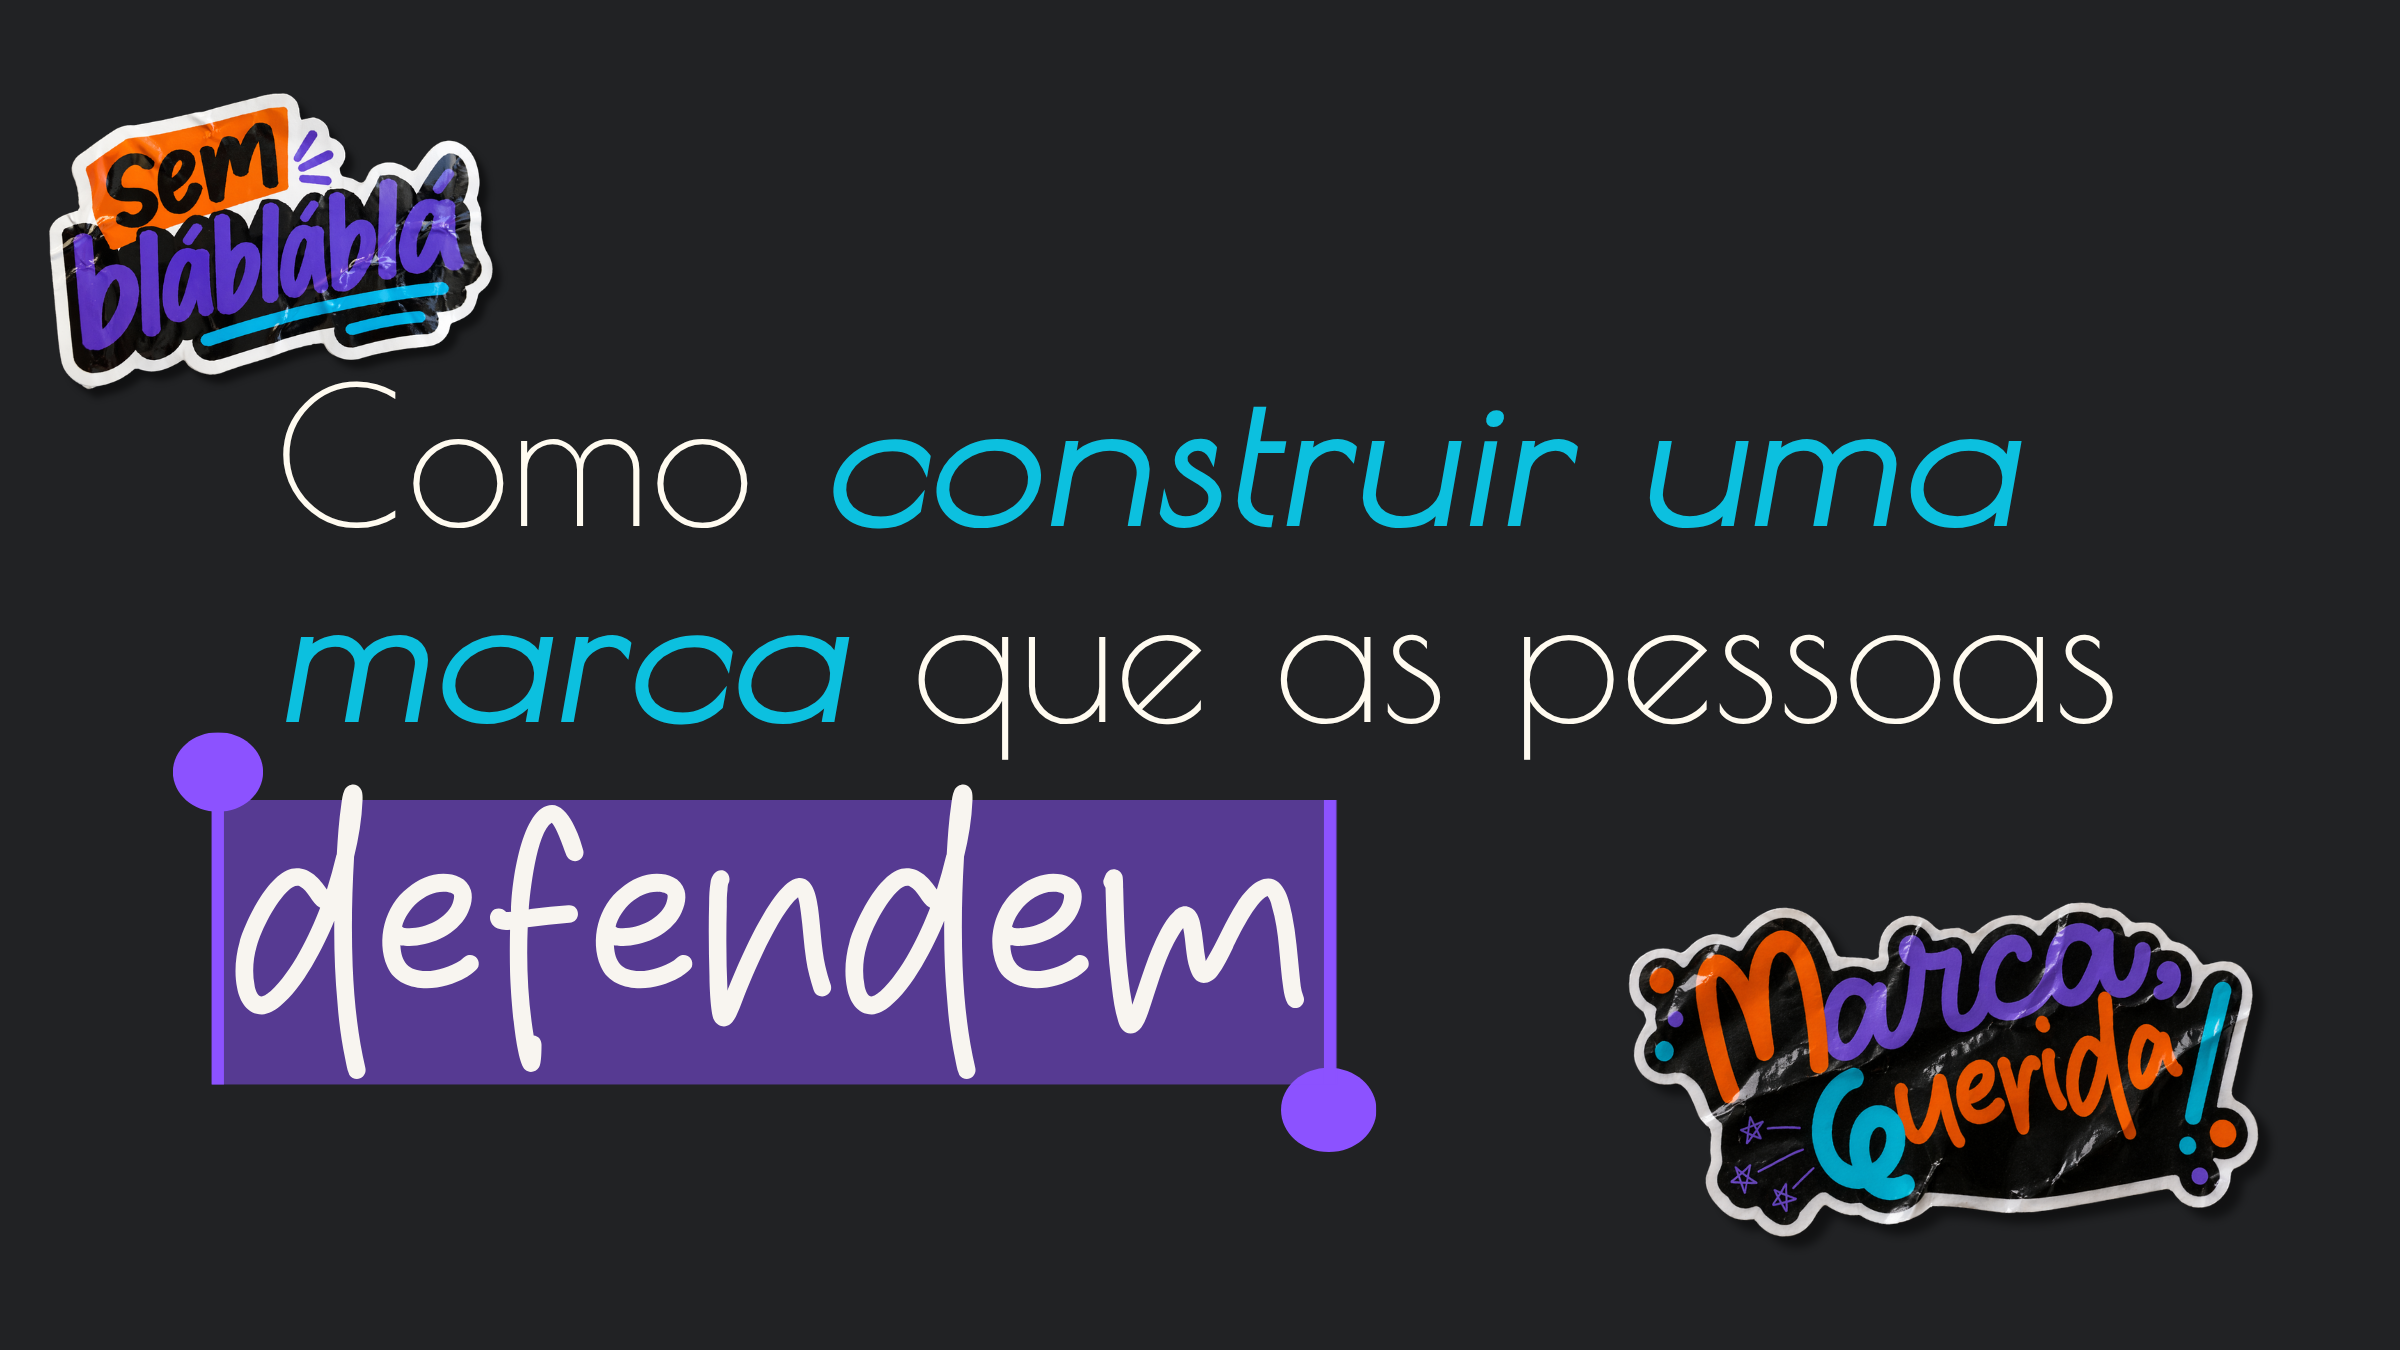
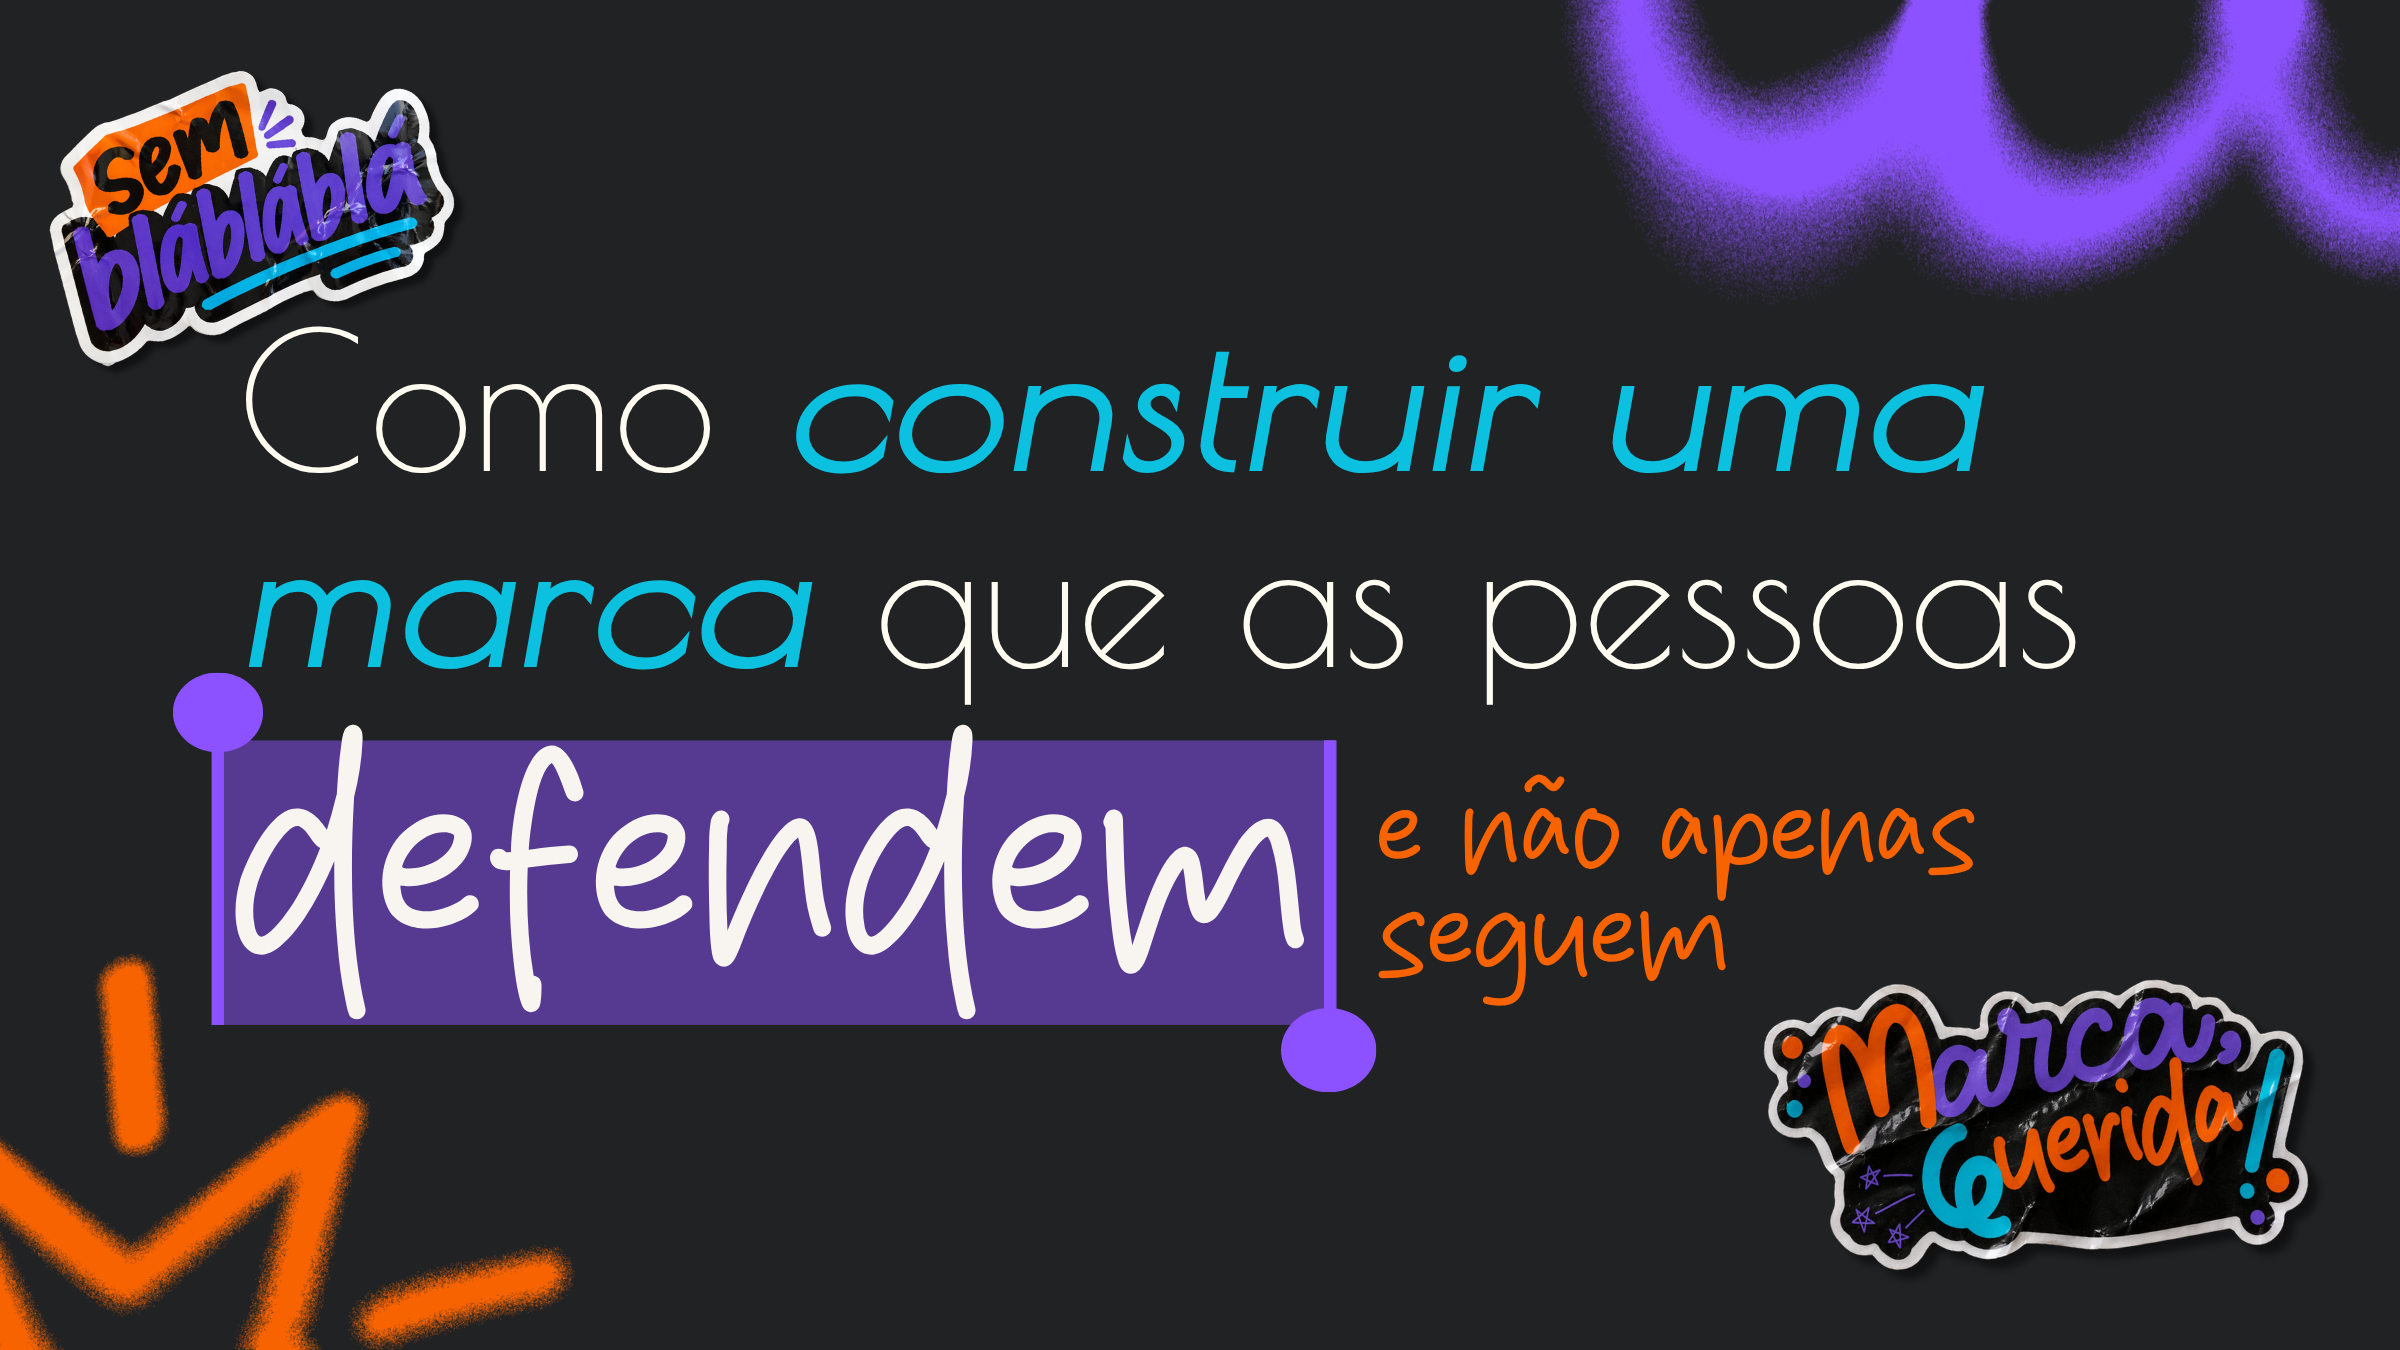
adiciona capas para todos os 6 posts do blog

Changed region(s): [[0.0, 0.0311, 0.9688, 1.0], [0.6562, 0.0, 1.0, 0.2178]]

diff --git a/src/lib/posts.ts b/src/lib/posts.ts
@@ -92,6 +92,7 @@ export const posts: Post[] = [
   },
   {
     slug: "por-que-sua-taxa-de-engajamento-caiu",
+    capa: "/capa-por-que-sua-taxa-de-engajamento-caiu.png",
     titulo: "Por que sua taxa de engajamento caiu — e o que fazer agora",
     categoria: "instagram",
     previa: "Antes de culpar o algoritmo, veja o que realmente está acontecendo com o seu conteúdo.",
@@ -149,6 +150,7 @@ export const posts: Post[] = [
   },
   {
     slug: "tendencias-de-conteudo-2025-mercado-feminino",
+    capa: "/capa-tendencias-de-conteudo-mercado-feminino-2025.png",
     titulo: "Tendências de conteúdo que vão dominar o mercado feminino em 2025",
     categoria: "marketing",
     previa: "O comportamento do consumidor feminino está mudando. Veja como se posicionar à frente.",
@@ -210,6 +212,7 @@ export const posts: Post[] = [
   },
   {
     slug: "posicionamento-de-marca-o-erro-que-a-maioria-comete",
+    capa: "/capa-posicionamento-de-marca-o-erro-que-a-maioria-comete.png",
     titulo: "Posicionamento de marca: o erro que a maioria das empreendedoras comete",
     categoria: "empreendedorismo",
     previa: "Posicionamento não é nicho. Entenda a diferença e como isso impacta diretamente suas vendas.",
@@ -267,6 +270,7 @@ export const posts: Post[] = [
   },
   {
     slug: "conteudo-para-instagram-criar-menos-aparecer-mais",
+    capa: "/capa-conteudo-para-instagram-criar-menos-aparecer-mais.png",
     titulo: "Conteúdo para Instagram: como criar menos e aparecer mais",
     categoria: "instagram",
     previa: "Consistência não é sobre quantidade — é sobre estratégia. Aprenda a fazer mais com menos.",
@@ -321,6 +325,7 @@ export const posts: Post[] = [
   },
   {
     slug: "storytelling-para-marcas-guia-universo-feminino",
+    capa: "/capa-storytelling-para-marcas-guia-definitivo.png",
     titulo: "Storytelling para marcas: o guia definitivo para o universo feminino",
     categoria: "marketing",
     previa: "Marcas que contam histórias vendem mais, fidelizam mais e são mais lembradas. Aprenda como.",
